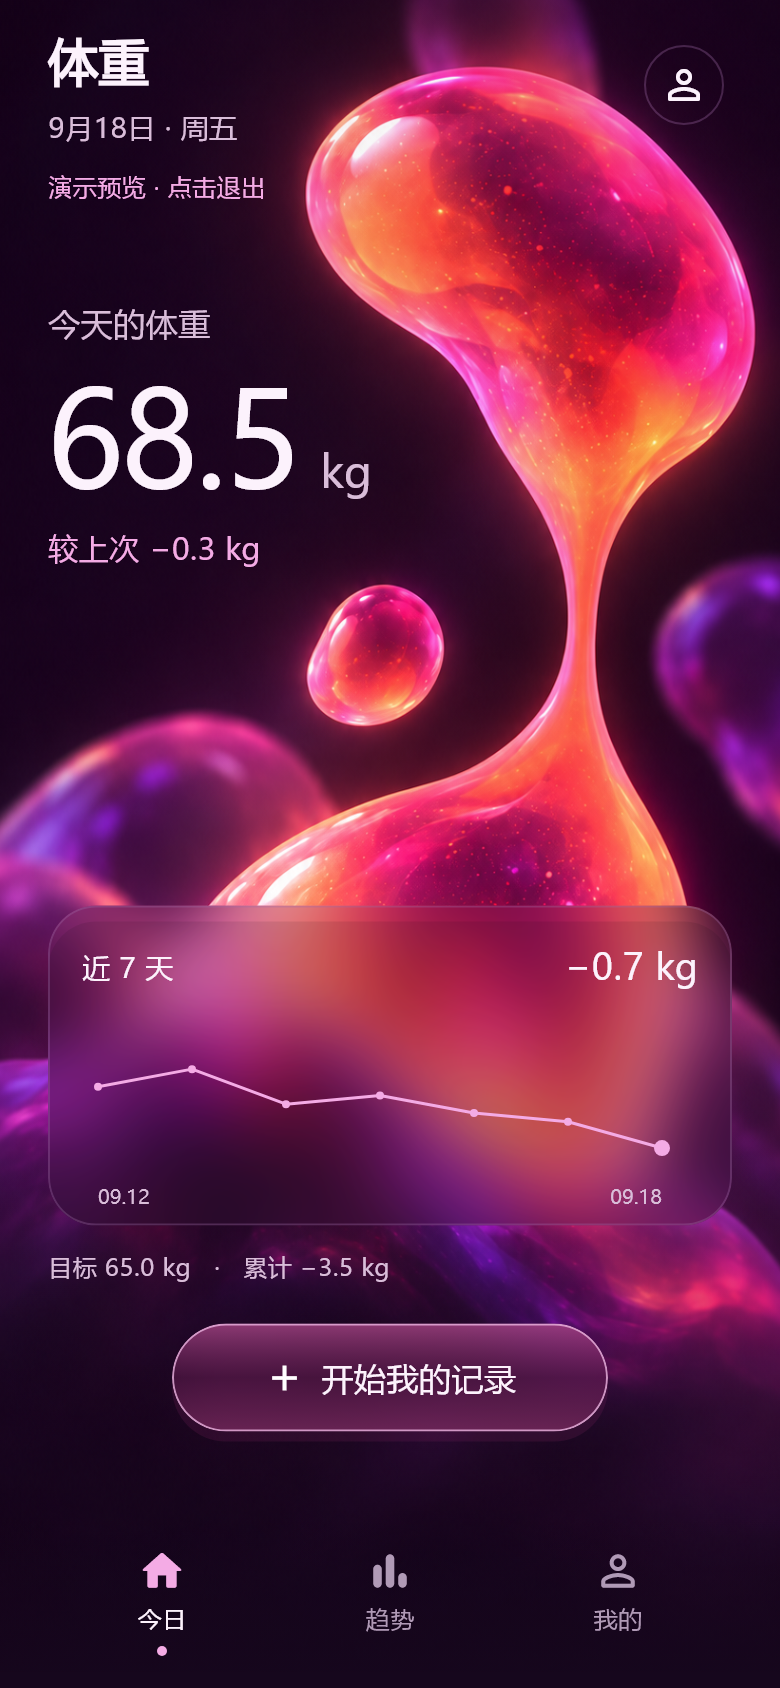
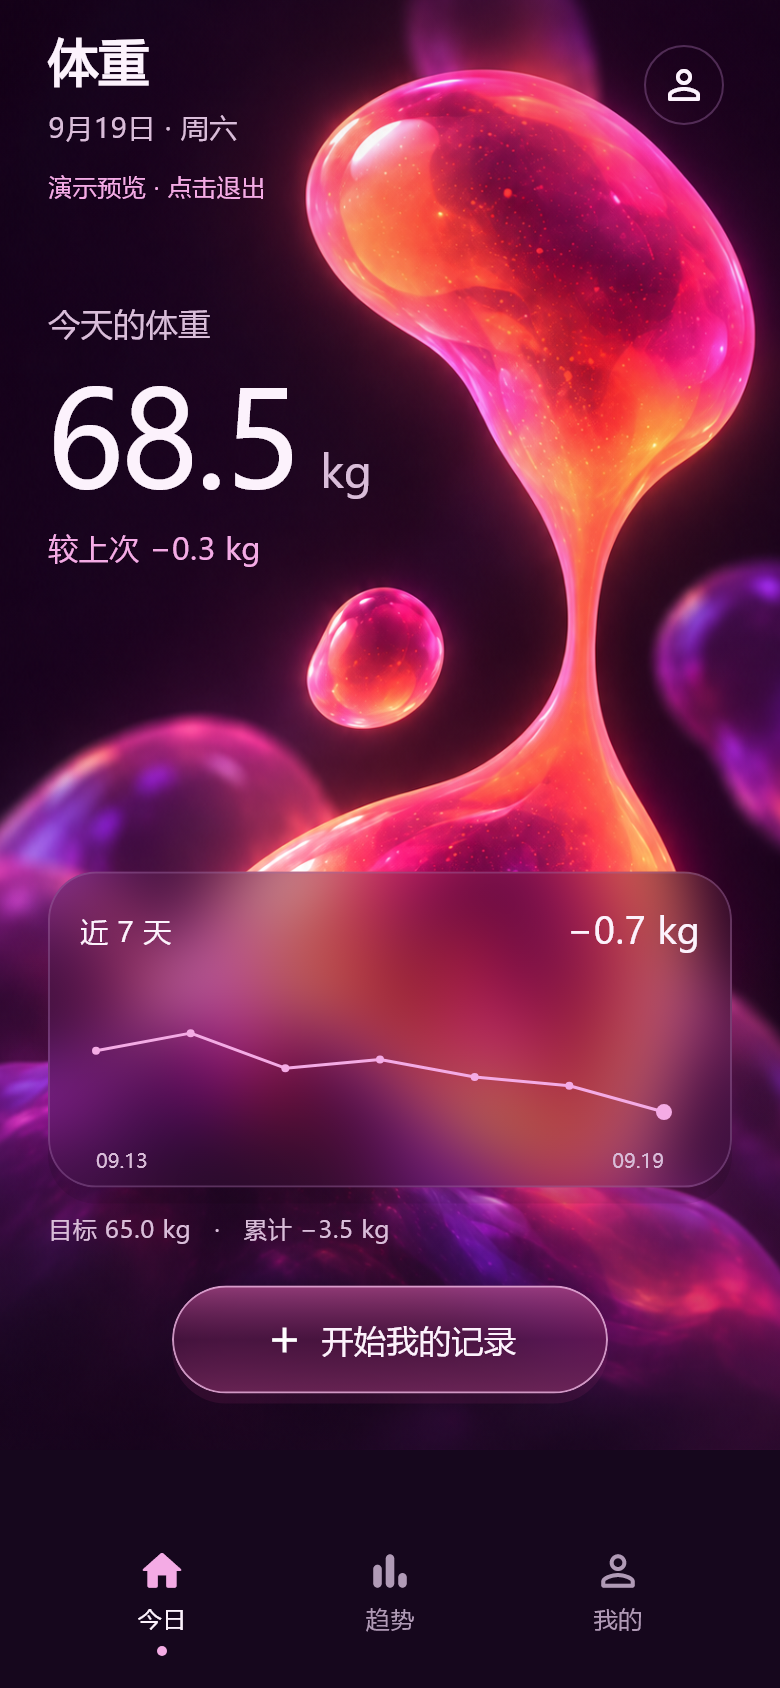
fix: keep glass surfaces stable, round inputs, and clear bottom navigation

diff --git a/test/widget_test.dart b/test/widget_test.dart
@@ -3,6 +3,7 @@ import 'package:flutter_test/flutter_test.dart';
 import 'package:lava_weight/main.dart';
 import 'package:lava_weight/models/user_profile.dart';
 import 'package:lava_weight/services/storage_service.dart';
+import 'package:lava_weight/theme/lava_theme.dart';
 import 'package:lava_weight/views/record_view.dart';
 import 'package:lava_weight/widgets/lava_ruler.dart';
 import 'test_store.dart';
@@ -108,4 +109,89 @@ void main() {
       expect(tester.takeException(), isNull);
     });
   }
+
+  testWidgets('bottom navigation reserves layout space on long pages', (
+    tester,
+  ) async {
+    final storage = await setup(tester);
+    storage.showDemo();
+    await tester.pumpWidget(LavaWeightApp(storage: storage));
+    await tester.pumpAndSettle();
+    final nav = find.byKey(const ValueKey('main-bottom-navigation'));
+    expect(nav, findsOneWidget);
+    final navTop = tester.getTopLeft(nav).dy;
+
+    await tester.tap(find.text('趋势'));
+    await tester.pumpAndSettle();
+    final trendsScroll = find.byType(CustomScrollView);
+    await tester.scrollUntilVisible(
+      find.byKey(const ValueKey('history-demo_0')),
+      500,
+      scrollable: find.descendant(
+        of: trendsScroll,
+        matching: find.byType(Scrollable),
+      ),
+    );
+    await tester.pumpAndSettle();
+    expect(
+      tester.getBottomRight(find.byKey(const ValueKey('history-demo_0'))).dy,
+      lessThan(navTop),
+    );
+
+    await tester.tap(find.text('我的'));
+    await tester.pumpAndSettle();
+    final settingsScroll = find.byType(SingleChildScrollView).last;
+    await tester.scrollUntilVisible(
+      find.byKey(const ValueKey('settings-last-content')),
+      500,
+      scrollable: find
+          .descendant(of: settingsScroll, matching: find.byType(Scrollable))
+          .last,
+    );
+    await tester.pumpAndSettle();
+    expect(
+      tester
+          .getBottomRight(find.byKey(const ValueKey('settings-last-content')))
+          .dy,
+      lessThan(navTop),
+    );
+    expect(tester.takeException(), isNull);
+  });
+
+  testWidgets('glass cards keep a visible fill after scroll', (tester) async {
+    final storage = await setup(tester);
+    storage.showDemo();
+    await tester.pumpWidget(LavaWeightApp(storage: storage));
+    await tester.pumpAndSettle();
+    await tester.tap(find.text('趋势'));
+    await tester.pumpAndSettle();
+    await tester.drag(find.byType(CustomScrollView), const Offset(0, -400));
+    await tester.pump();
+    final decorations = tester.widgetList<DecoratedBox>(
+      find.byType(DecoratedBox),
+    );
+    expect(
+      decorations.where((widget) {
+        final decoration = widget.decoration;
+        return decoration is BoxDecoration &&
+            decoration.gradient != null &&
+            decoration.borderRadius != null;
+      }),
+      isNotEmpty,
+    );
+    expect(tester.takeException(), isNull);
+  });
+
+  testWidgets('all text fields use rounded themed borders', (tester) async {
+    final storage = await setup(tester);
+    await tester.pumpWidget(LavaWeightApp(storage: storage));
+    await tester.pumpAndSettle();
+    await tester.tap(find.text('我的'));
+    await tester.pumpAndSettle();
+    final theme = Theme.of(tester.element(find.byType(TextFormField).first));
+    final border =
+        theme.inputDecorationTheme.enabledBorder as OutlineInputBorder;
+    expect(border.borderRadius.topLeft.x, 18);
+    expect(border.borderSide.color, LavaTheme.glassBorderSubtle);
+  });
 }

diff --git a/lib/views/record_view.dart b/lib/views/record_view.dart
@@ -5,7 +5,6 @@ import '../services/date_helper.dart';
 import '../services/storage_service.dart';
 import '../theme/lava_theme.dart';
 import '../widgets/app_helpers.dart';
-import '../widgets/glass_card.dart';
 import '../widgets/glowing_button.dart';
 import '../widgets/lava_background.dart';
 import '../widgets/lava_ruler.dart';
@@ -85,7 +84,9 @@ class _RecordViewState extends State<RecordView> {
           autofocus: true,
           keyboardType: const TextInputType.numberWithOptions(decimal: true),
           decoration: InputDecoration(
-            helperText: _jin ? '40–600 斤' : '20–300 kg',
+            labelText: '当前体重',
+            suffixText: _jin ? '斤' : 'kg',
+            helperText: _jin ? '有效范围 40–600 斤' : '有效范围 20–300 kg',
           ),
         ),
         actions: [
@@ -264,27 +265,16 @@ class _RecordViewState extends State<RecordView> {
                         : (selection) => setState(() => _jin = selection.first),
                   ),
                   const SizedBox(height: 22),
-                  GlassCard(
-                    borderRadius: 20,
-                    padding: const EdgeInsets.symmetric(
-                      horizontal: 16,
-                      vertical: 4,
-                    ),
-                    child: TextField(
-                      controller: _note,
-                      enabled: !_saving,
-                      maxLength: 500,
-                      minLines: 1,
-                      maxLines: 3,
-                      decoration: const InputDecoration(
-                        icon: Icon(Icons.edit_note_rounded, size: 23),
-                        hintText: '今天感觉如何…',
-                        counterText: '',
-                        border: InputBorder.none,
-                        enabledBorder: InputBorder.none,
-                        focusedBorder: InputBorder.none,
-                        filled: false,
-                      ),
+                  TextField(
+                    controller: _note,
+                    enabled: !_saving,
+                    maxLength: 500,
+                    minLines: 1,
+                    maxLines: 3,
+                    decoration: const InputDecoration(
+                      prefixIcon: Icon(Icons.edit_note_rounded, size: 23),
+                      hintText: '今天感觉如何…',
+                      counterText: '',
                     ),
                   ),
                   const SizedBox(height: 22),

diff --git a/lib/theme/lava_theme.dart b/lib/theme/lava_theme.dart
@@ -9,9 +9,9 @@ class LavaTheme {
   static const textPrimary = Color(0xFFFCF2FC);
   static const textSecondary = Color(0xFFD9BDD9);
   static const textMuted = Color(0xFFB09AB6);
-  static const glassFill = Color(0x243D2046);
-  static const glassBorder = Color(0x559E6AA7);
-  static const glassBorderSubtle = Color(0x338E6A99);
+  static const glassFill = Color(0x703D2046);
+  static const glassBorder = Color(0x669E6AA7);
+  static const glassBorderSubtle = Color(0x408E6A99);
   static const success = lavaPink;
   static const warning = lavaPeach;
   static const buttonGlowShadow = [
@@ -41,10 +41,36 @@ class LavaTheme {
       bodyMedium: TextStyle(color: textPrimary, fontSize: 14),
       bodySmall: TextStyle(color: textSecondary, fontSize: 12),
     ),
-    inputDecorationTheme: const InputDecorationTheme(
+    inputDecorationTheme: InputDecorationTheme(
       filled: true,
-      fillColor: Color(0x25281530),
-      border: OutlineInputBorder(borderSide: BorderSide(color: glassBorder)),
+      fillColor: const Color(0x66341A3D),
+      contentPadding: const EdgeInsets.symmetric(horizontal: 18, vertical: 16),
+      labelStyle: const TextStyle(color: textSecondary),
+      hintStyle: const TextStyle(color: textMuted),
+      border: OutlineInputBorder(
+        borderRadius: BorderRadius.circular(18),
+        borderSide: const BorderSide(color: glassBorder),
+      ),
+      enabledBorder: OutlineInputBorder(
+        borderRadius: BorderRadius.circular(18),
+        borderSide: const BorderSide(color: glassBorderSubtle),
+      ),
+      focusedBorder: OutlineInputBorder(
+        borderRadius: BorderRadius.circular(18),
+        borderSide: const BorderSide(color: lavaPink, width: 1.3),
+      ),
+      errorBorder: OutlineInputBorder(
+        borderRadius: BorderRadius.circular(18),
+        borderSide: const BorderSide(color: lavaPeach),
+      ),
+      focusedErrorBorder: OutlineInputBorder(
+        borderRadius: BorderRadius.circular(18),
+        borderSide: const BorderSide(color: lavaPeach, width: 1.3),
+      ),
+      disabledBorder: OutlineInputBorder(
+        borderRadius: BorderRadius.circular(18),
+        borderSide: const BorderSide(color: glassBorderSubtle),
+      ),
     ),
     snackBarTheme: const SnackBarThemeData(
       backgroundColor: backgroundAubergine,

diff --git a/lib/widgets/glass_card.dart b/lib/widgets/glass_card.dart
@@ -26,22 +26,34 @@ class GlassCard extends StatelessWidget {
 
   @override
   Widget build(BuildContext context) {
-    Widget card = ClipRRect(
-      borderRadius: BorderRadius.circular(borderRadius),
-      child: BackdropFilter(
-        filter: ImageFilter.blur(sigmaX: blurSigma, sigmaY: blurSigma),
-        child: Container(
-          padding: padding,
-          decoration: BoxDecoration(
-            color: backgroundColor ?? LavaTheme.glassFill,
-            borderRadius: BorderRadius.circular(borderRadius),
-            border: Border.all(
-              color: borderColor ?? LavaTheme.glassBorder,
-              width: 1.0,
+    final radius = BorderRadius.circular(borderRadius);
+    Widget card = DecoratedBox(
+      decoration: BoxDecoration(
+        borderRadius: radius,
+        boxShadow: LavaTheme.cardShadow,
+      ),
+      child: ClipRRect(
+        borderRadius: radius,
+        child: BackdropFilter.grouped(
+          filter: ImageFilter.blur(sigmaX: blurSigma, sigmaY: blurSigma),
+          child: DecoratedBox(
+            decoration: BoxDecoration(
+              color: backgroundColor ?? LavaTheme.glassFill,
+              gradient: backgroundColor == null
+                  ? const LinearGradient(
+                      colors: [Color(0x843F2148), Color(0x66301A39)],
+                      begin: Alignment.topLeft,
+                      end: Alignment.bottomRight,
+                    )
+                  : null,
+              borderRadius: radius,
+              border: Border.all(
+                color: borderColor ?? LavaTheme.glassBorder,
+                width: 1.0,
+              ),
             ),
-            boxShadow: LavaTheme.cardShadow,
+            child: Padding(padding: padding ?? EdgeInsets.zero, child: child),
           ),
-          child: child,
         ),
       ),
     );

diff --git a/lib/views/main_scaffold.dart b/lib/views/main_scaffold.dart
@@ -29,24 +29,28 @@ class _MainScaffoldState extends State<MainScaffold> {
   Widget build(BuildContext context) => ListenableBuilder(
     listenable: widget.storage,
     builder: (context, _) => Scaffold(
-      extendBody: true,
-      body: switch (_index) {
-        0 => HomeView(
-          storage: widget.storage,
-          onRecord: _addRecord,
-          onProfile: () => setState(() => _index = 2),
-        ),
-        1 => TrendsView(storage: widget.storage),
-        _ => SettingsView(storage: widget.storage),
-      },
-      bottomNavigationBar: DecoratedBox(
-        decoration: const BoxDecoration(
-          gradient: LinearGradient(
-            colors: [Color(0x0016071D), Color(0xE616071D)],
-            begin: Alignment.topCenter,
-            end: Alignment.bottomCenter,
+      body: IndexedStack(
+        index: _index,
+        children: [
+          HomeView(
+            key: const PageStorageKey('home'),
+            storage: widget.storage,
+            onRecord: _addRecord,
+            onProfile: () => setState(() => _index = 2),
           ),
-        ),
+          TrendsView(
+            key: const PageStorageKey('trends'),
+            storage: widget.storage,
+          ),
+          SettingsView(
+            key: const PageStorageKey('settings'),
+            storage: widget.storage,
+          ),
+        ],
+      ),
+      bottomNavigationBar: ColoredBox(
+        key: const ValueKey('main-bottom-navigation'),
+        color: LavaTheme.background,
         child: SafeArea(
           top: false,
           child: Padding(

diff --git a/lib/views/settings_view.dart b/lib/views/settings_view.dart
@@ -116,7 +116,7 @@ class _SettingsViewState extends State<SettingsView> {
       child: SafeArea(
         bottom: false,
         child: SingleChildScrollView(
-          padding: const EdgeInsets.fromLTRB(24, 12, 24, 130),
+          padding: const EdgeInsets.fromLTRB(24, 12, 24, 32),
           child: Column(
             crossAxisAlignment: CrossAxisAlignment.start,
             children: [
@@ -286,7 +286,8 @@ class _SettingsViewState extends State<SettingsView> {
                     ),
                     const SizedBox(height: 22),
                     const Text(
-                      '流光体重 · LavaWeight 0.1.0\n开源 · 离线 · 无账号',
+                      '流光体重 · LavaWeight 0.1.1\n开源 · 离线 · 无账号',
+                      key: ValueKey('settings-last-content'),
                       style: TextStyle(
                         color: LavaTheme.textSecondary,
                         fontSize: 12,

diff --git a/lib/views/trends_view.dart b/lib/views/trends_view.dart
@@ -163,6 +163,7 @@ class _TrendsViewState extends State<TrendsView> {
                   return Padding(
                     padding: const EdgeInsets.only(bottom: 8),
                     child: GlassCard(
+                      key: ValueKey('history-${record.id}'),
                       borderRadius: 18,
                       blurSigma: 8,
                       padding: const EdgeInsets.fromLTRB(16, 12, 8, 12),
@@ -240,7 +241,7 @@ class _TrendsViewState extends State<TrendsView> {
                 },
               ),
             ),
-            const SliverToBoxAdapter(child: SizedBox(height: 125)),
+            const SliverToBoxAdapter(child: SizedBox(height: 32)),
           ],
         ),
       ),

diff --git a/lib/views/home_view.dart b/lib/views/home_view.dart
@@ -37,7 +37,7 @@ class HomeView extends StatelessWidget {
         bottom: false,
         child: LayoutBuilder(
           builder: (context, bounds) => SingleChildScrollView(
-            padding: const EdgeInsets.fromLTRB(24, 12, 24, 120),
+            padding: const EdgeInsets.fromLTRB(24, 12, 24, 28),
             child: Column(
               crossAxisAlignment: CrossAxisAlignment.start,
               children: [

diff --git a/lib/widgets/lava_background.dart b/lib/widgets/lava_background.dart
@@ -129,7 +129,7 @@ class PageBackdrop extends StatelessWidget {
           ),
         ),
       ),
-      child,
+      BackdropGroup(child: child),
     ],
   );
 }

diff --git a/README.md b/README.md
@@ -42,6 +42,7 @@ LavaWeight 灵感源自经典熔岩灯（Lava Lamp）与流光玻璃艺术：
 - **区间统计看板**：自动统计打卡天数、区间日均体重与变化幅度。
 - **交互式曲线**：在图表区域任意滑动，即可高亮十字准星并弹出该时刻的确切时间与体重。
 - **明细记录管理**：支持点击编辑或删除记录，带有防误触二次确认。
+- **界面稳定性打磨**：滚动时玻璃卡片保持稳定透光层，输入框统一为圆角毛玻璃样式，长页面内容会自动避开底部导航栏。
 
 ### 3. 极速记录 (Record)
 - **悬浮液态球交互**：体重数值自然悬浮于居中液态光球之上。
